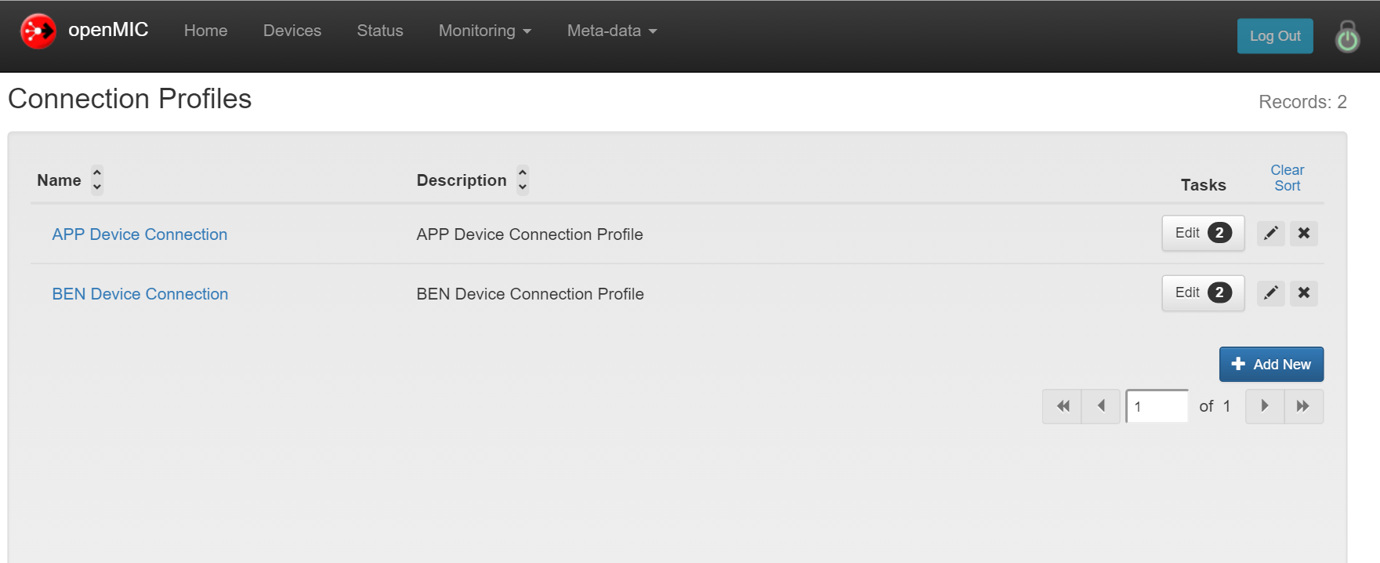
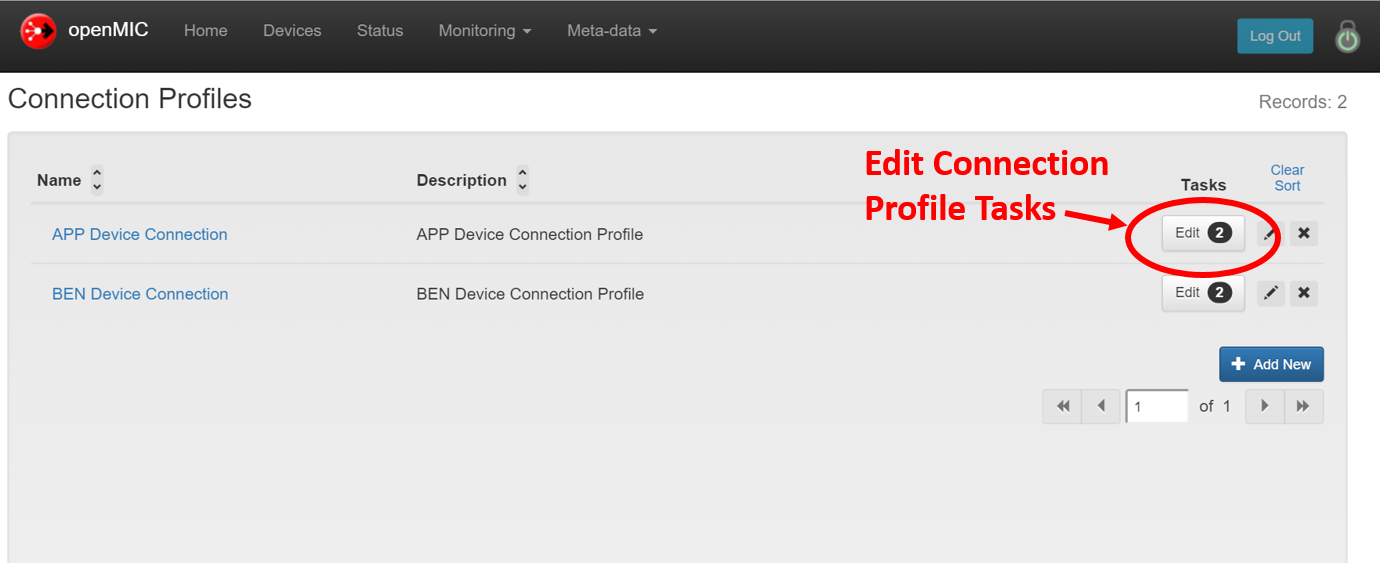
Add Readme and change a readme pic

Changed region(s): [[0.6232, 0.2718, 0.9348, 0.5133]]

diff --git a/README.md b/README.md
@@ -1,3 +1,104 @@
+![openMIC](https://raw.githubusercontent.com/GridProtectionAlliance/openMIC/master/Readme%20files/openMIC%20logo.png)
+
 # openMIC
+
 Meter Information Collector
 
+## What Does it Do?
+
+* Interrogates multiple vendors' DFRs
+  * Via IP
+  * Via Modem (RAS & FTP)
+* Schedules calls & organizes returned data
+  * Admins can define multiple interrogation schedules - including as-fast-as-possible
+  * Output location can be specified on a device-by-device basis
+* Logs and reports meter problems
+* Includes a mobile-ready web app to view interrogation status
+  * A tool for configuration
+  * Shows interrogation history / status of each DFR
+
+## Components
+
+* Configuration data base (SQL server)
+* The openMIC service (*the automation engine*)
+  * GPA's new Web Solutions Framework
+  * The Grid Solutions Framework
+* An implementation of the WSF - The openMIC Web Management Interface
+* The GSF Admin console
+* File server / file share to receive files
+* Installer / Installation Package
+
+![GPA WSF - A New Technology Layer](https://raw.githubusercontent.com/GridProtectionAlliance/openMIC/master/Readme%20files/GPA%20WSF.png)
+
+# Documentation
+
+openMIC is a fairly new project and there is currently no documentation.
+
+Check out these screenshots though...
+
+## Main Screen
+
+![Main Screen](https://raw.githubusercontent.com/GridProtectionAlliance/openMIC/master/Readme%20files/Main%20Screen.png)
+
+## Manage Devices and Schedules
+
+![Manage Devices and Schedules](https://raw.githubusercontent.com/GridProtectionAlliance/openMIC/master/Readme%20files/Manage%20Devices%20and%20Schedules.png)
+
+## Edit Device Connection Info
+
+![Edit Device Connection Info](https://raw.githubusercontent.com/GridProtectionAlliance/openMIC/master/Readme%20files/Edit%20Device%20Connection%20Info.png)
+
+## Regular Expression Field Validation
+
+![Regular Expression Field Validation](https://raw.githubusercontent.com/GridProtectionAlliance/openMIC/master/Readme%20files/Regular%20Expression%20Field%20Validation.png)
+
+## Cron Schedule Syntax Helper
+
+![Cron Schedule Syntax Helper](https://raw.githubusercontent.com/GridProtectionAlliance/openMIC/master/Readme%20files/Cron%20Schedule%20Syntax%20Helper.png)
+
+## Manage Connection Profiles
+
+![Manage Connection Profiles](https://raw.githubusercontent.com/GridProtectionAlliance/openMIC/master/Readme%20files/Manage%20Connection%20Profiles.png)
+
+## Manage Connection Profile Tasks
+
+![Manage Connection Profile Tasks](https://raw.githubusercontent.com/GridProtectionAlliance/openMIC/master/Readme%20files/Manage%20Connection%20Profile%20Tasks.png)
+
+## Edit Connection Profile Task
+
+![Edit Connection Profile Task](https://raw.githubusercontent.com/GridProtectionAlliance/openMIC/master/Readme%20files/Edit%20Connection%20Profile%20Task.png)
+
+## Monitor the Service via Web
+
+![Monitor the Service via Web](https://raw.githubusercontent.com/GridProtectionAlliance/openMIC/master/Readme%20files/Monitor%20the%20Service%20via%20Web.png)
+
+# Deployment
+
+1. Make sure your system meets all the requirements below.
+* Download the [nightly build](#nightly-build) below.
+* Unzip.
+* Run "Setup.exe".
+* Follow the wizard.
+* Enjoy.
+
+## Requirements
+
+* .NET 4.6 or higher.
+* 64-bit Windows 7 or newer.
+* Database management system such as:
+  * SQL Server (Recommended)
+  * MySQL
+  * Oracle
+  * SQLite (Not recommended for production use) - included.
+
+## Nightly Build
+
+Download the nightly build [here](http://www.gridprotectionalliance.org/nightlybuilds/openMIC/Setup.zip).
+
+# Contributing
+If you would like to contribute please:
+
+1. Read our [styleguide](https://www.gridprotectionalliance.org/docs/GPA_Coding_Guidelines_2011_03.pdf).
+* Fork the repository.
+* Code like a boss.
+* Create a pull request.
